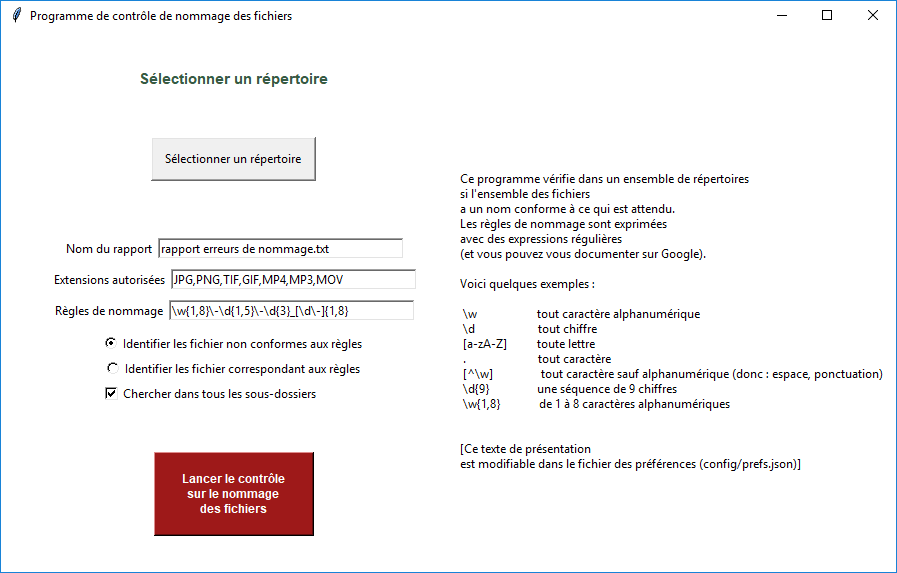
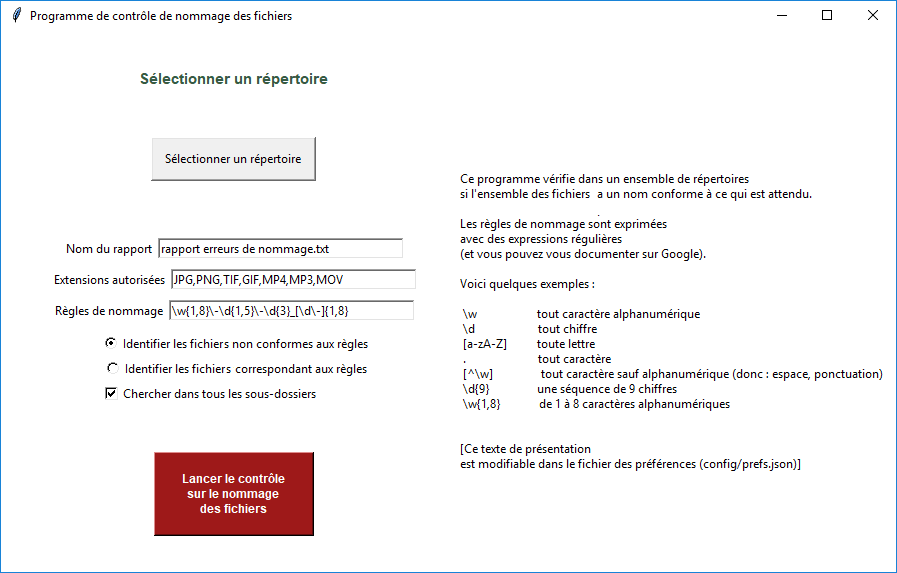
correction typo

Changed region(s): [[0.4994, 0.3264, 0.9052, 0.3857], [0.2497, 0.5934, 0.4058, 0.6527]]

diff --git a/file_name_checker/form.py b/file_name_checker/form.py
@@ -124,14 +124,14 @@ des fichiers",
     tk.Radiobutton(
         option_exceptions,
         bg=couleur_fond,
-        text="Identifier les fichier non conformes aux règles",
+        text="Identifier les fichiers non conformes aux règles",
         variable=get_exceptions,
         value=1,
         justify="left").pack()
     tk.Radiobutton(
         option_exceptions,
         bg=couleur_fond,
-        text="Identifier les fichier correspondant aux règles",
+        text="Identifier les fichiers correspondant aux règles",
         variable=get_exceptions,
         value=2,
         justify="left").pack()
